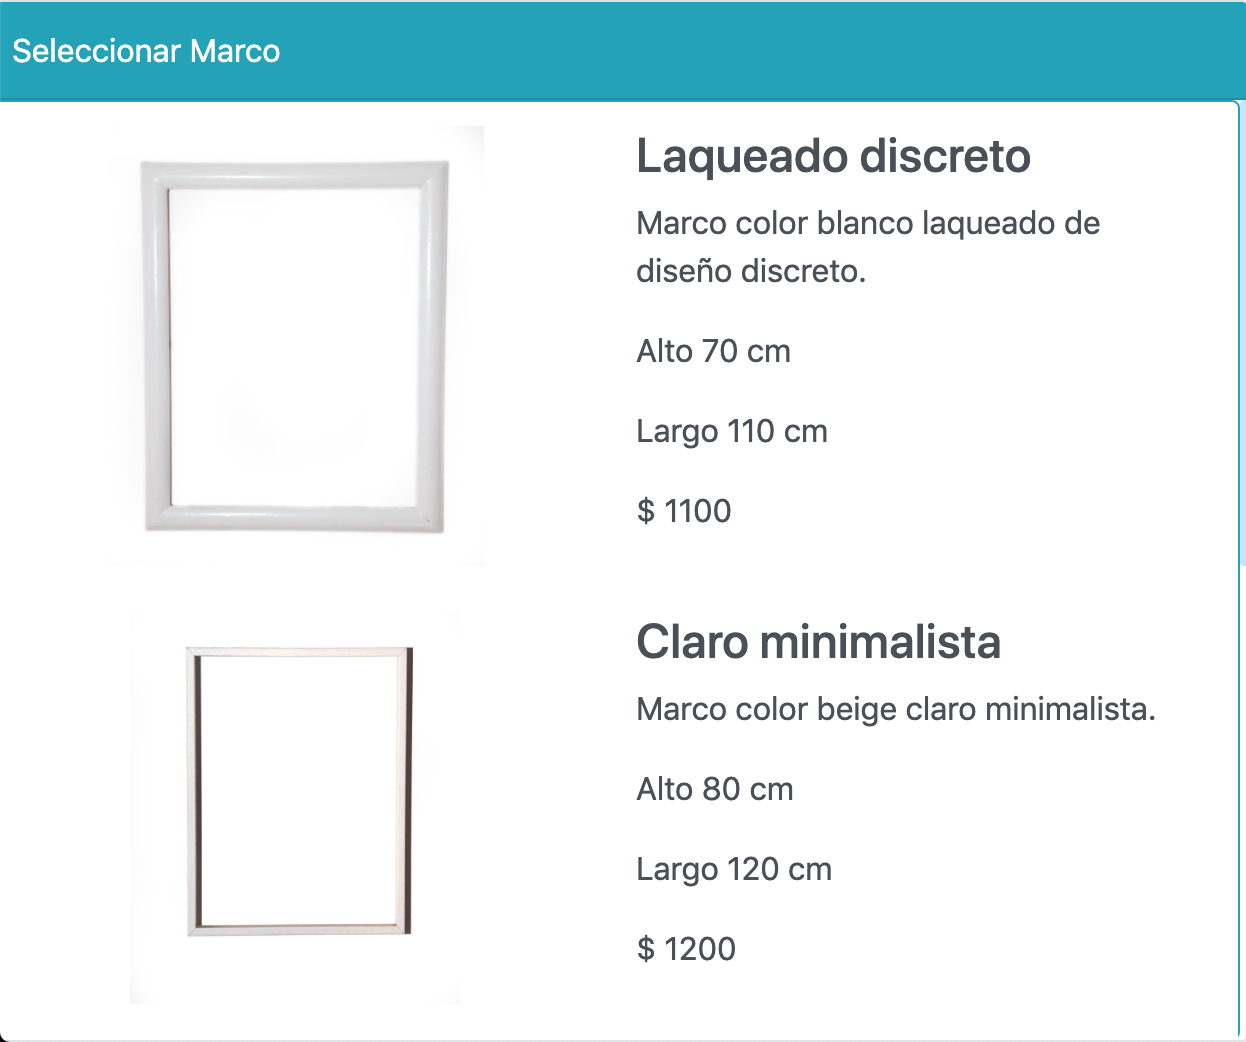
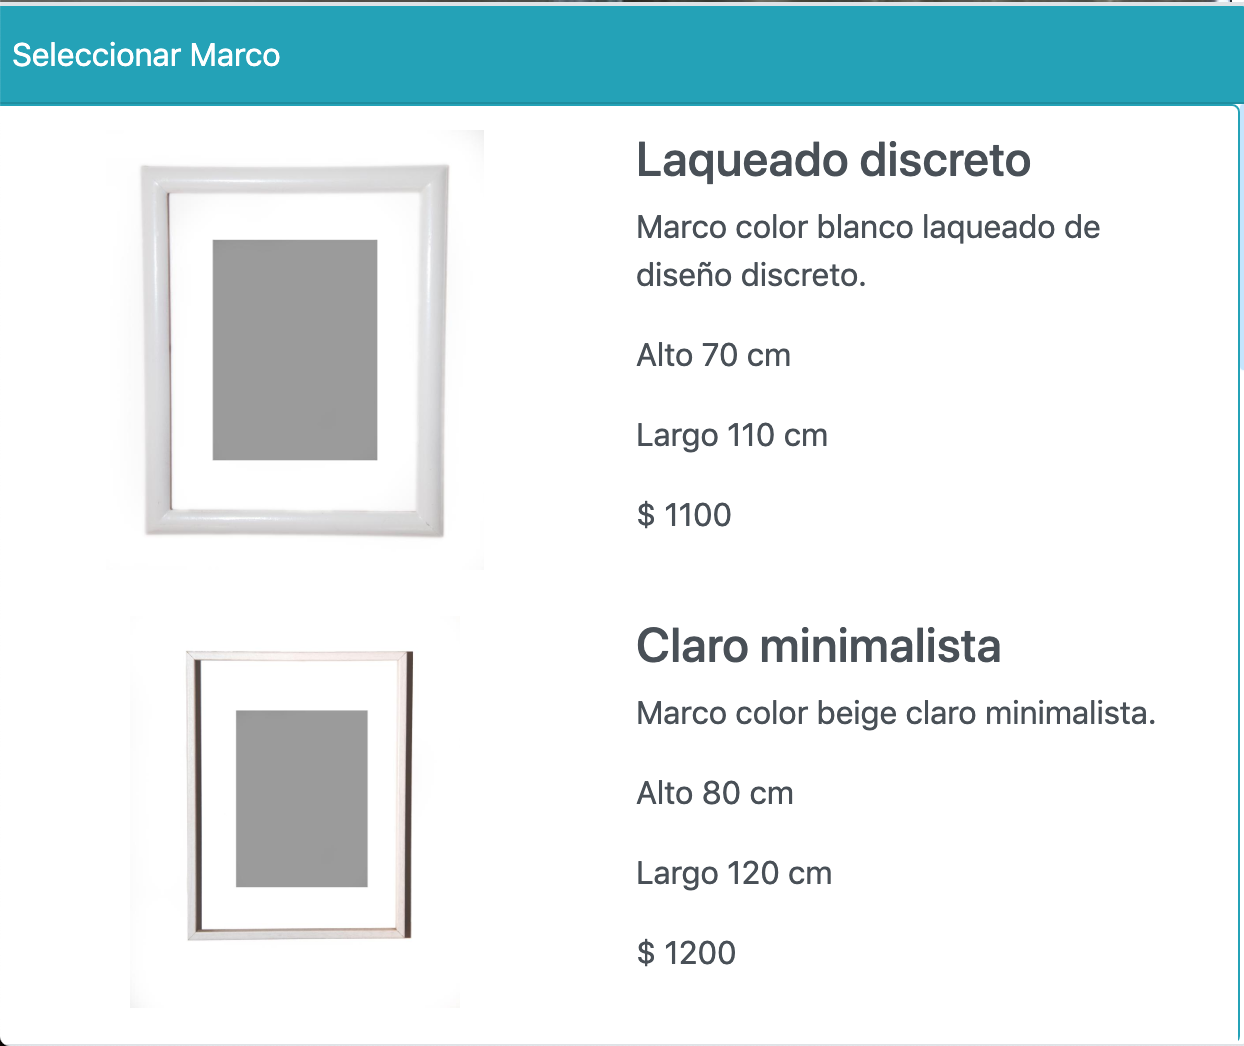
Fixes how to frame section

diff --git a/src/how-to.html b/src/how-to.html
@@ -9,7 +9,6 @@
     <hr>
     <div class="row">
       <div class="col-4">
-        <!--<img src="https://via.placeholder.com/1910x944" class="img-fluid" />-->
         <img src="/subir_foto.png" class="img-fluid">
       </div>
       <div class="col-8">
@@ -29,14 +28,12 @@
           La primera es elegir cual foto de la galeria deseamos tener enmarcada.</p>
       </div>
       <div class="col-4">
-        <!--<img src="https://via.placeholder.com/1252x1048" class="img-fluid" />-->
         <img src="/foto.png" class="img-fluid">
       </div>
     </div>
     <hr>
     <div class="row">
       <div class="col-4">
-        <!--<img src="https://via.placeholder.com/1286x1046" class="img-fluid" />-->
         <img src="/panel_anterior.png" class="img-fluid">
       </div>
       <div class="col-8">
@@ -56,19 +53,18 @@
         </p>
       </div>
       <div class="col-4">
-        <!--<img src="https://via.placeholder.com/1314x1060" class="img-fluid" />-->
         <img src="/pantalla.png" class="img-fluid">
       </div>
     </div>
     <hr>
     <div class="row">
       <div class="col-4">
-        <!--<img src="https://via.placeholder.com/1246x1042" class="img-fluid" />-->
         <img src="/marco.png" class="img-fluid">
       </div>
       <div class="col-8">
         <p>
           La selección del marco es la mas importante aportando el caracter y el estilo que mas te guste para la ocación.
+          El rectángulo gris indica la posición y el tamaño de la imagen expuesta.
         </p>
       </div>
     </div>
@@ -81,14 +77,12 @@
         </p>
       </div>
       <div class="col-4">
-        <!--<img src="https://via.placeholder.com/1246x1042" class="img-fluid" />-->
         <img src="/panel_posterior.png" class="img-fluid">
       </div>
     </div>
     <hr>
     <div class="row">
       <div class="col-4">
-        <!--<img src="https://via.placeholder.com/1246x1042" class="img-fluid" />-->
         <img src="/resumen.png" class="img-fluid">
       </div>
       <div class="col-8">
